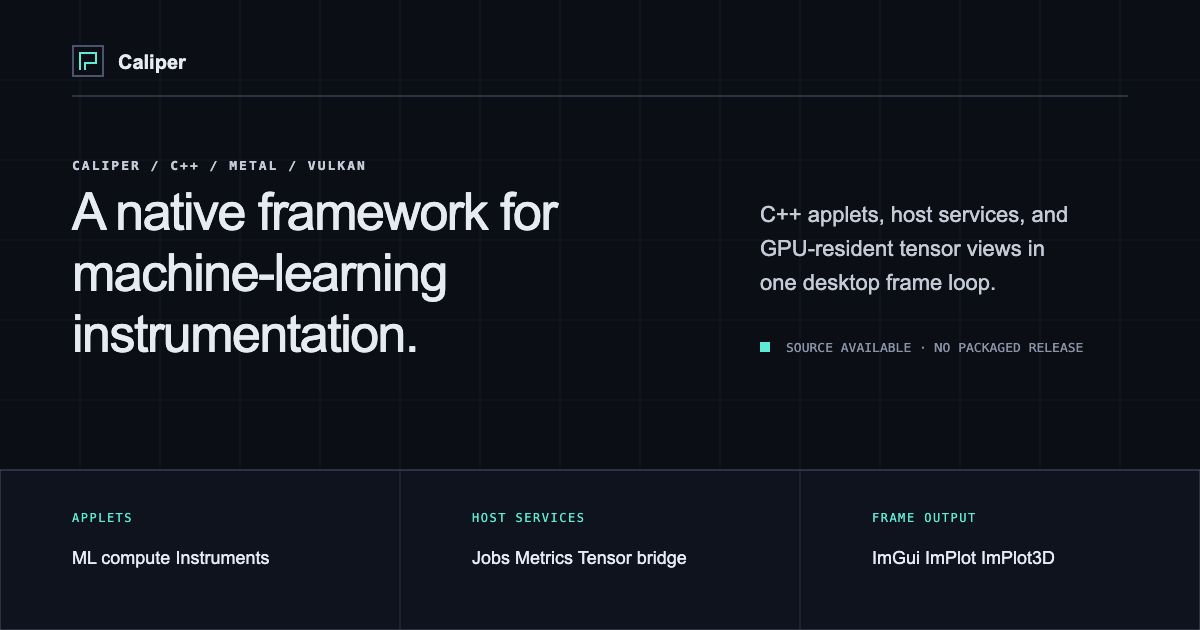
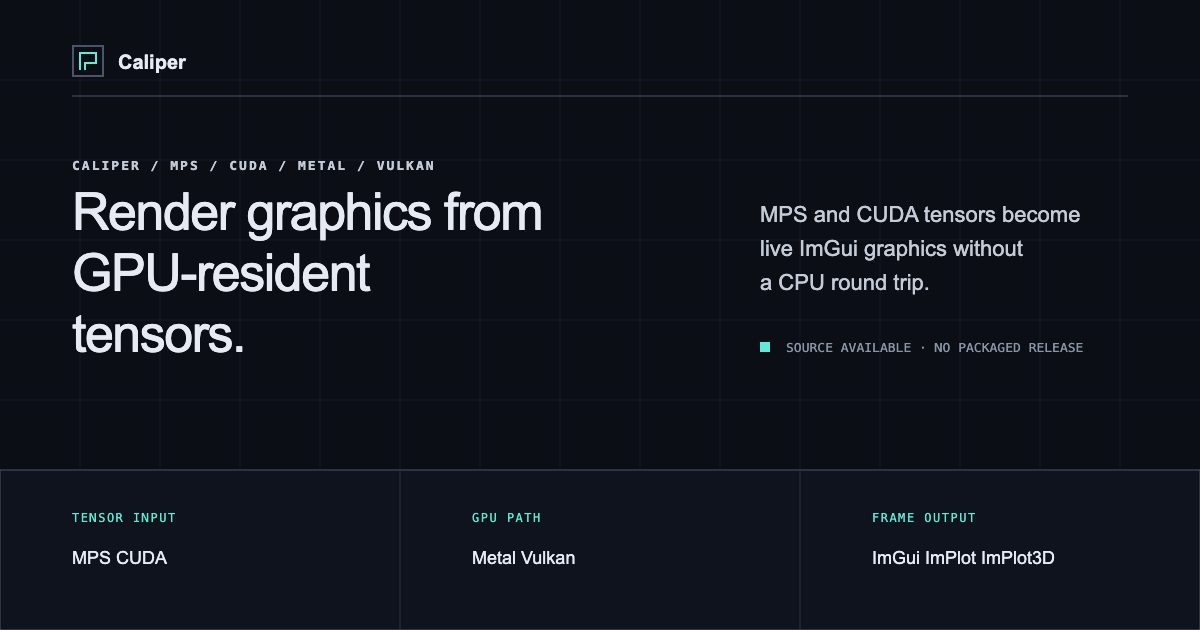
Refine Caliper product description

diff --git a/site/index.html b/site/index.html
@@ -3,8 +3,8 @@
 <head>
   <meta charset="utf-8">
   <meta name="viewport" content="width=device-width, initial-scale=1">
-  <title>Caliper — native framework for machine-learning instrumentation</title>
-  <meta name="description" content="Caliper is a native C++ host and applet framework for machine-learning instrumentation, with GPU-resident tensor visualization on Metal and Vulkan.">
+  <title>Caliper — graphics from GPU-resident tensors</title>
+  <meta name="description" content="Caliper renders MPS and CUDA tensors as live ImGui graphics without CPU staging on its native Metal and Vulkan paths.">
   <meta name="theme-color" content="#0b0e14">
   <meta name="color-scheme" content="dark">
   <link rel="canonical" href="https://ahmedkhan-gh.github.io/caliper/">
@@ -13,8 +13,8 @@
 
   <meta property="og:type" content="website">
   <meta property="og:site_name" content="Caliper">
-  <meta property="og:title" content="Caliper — native framework for machine-learning instrumentation">
-  <meta property="og:description" content="A C++ host and applet framework with GPU-resident tensor visualization on Metal and Vulkan.">
+  <meta property="og:title" content="Caliper — graphics from GPU-resident tensors">
+  <meta property="og:description" content="Render MPS and CUDA tensors as live ImGui graphics without a CPU round trip.">
   <meta property="og:url" content="https://ahmedkhan-gh.github.io/caliper/">
   <meta property="og:image" content="https://ahmedkhan-gh.github.io/caliper/assets/og.png">
   <meta property="og:image:width" content="1200">
@@ -42,10 +42,10 @@
     <section class="home-hero container" id="hero">
       <div>
         <p class="section-label">Caliper / C++ / Metal / Vulkan</p>
-        <h1>A native framework for machine-learning instrumentation.</h1>
+        <h1>Render graphics from GPU-resident tensors.</h1>
       </div>
       <div class="hero-summary">
-        <p>Caliper hosts C++ applets in the same frame loop as training. Its tensor bridge turns GPU-resident tensors into live ImGui textures on native Metal and Vulkan backends.</p>
+        <p>Caliper turns MPS and CUDA tensors into live ImGui graphics. Its Metal and Vulkan paths keep dense image and geometry views off the CPU staging path.</p>
         <div class="button-row">
           <a class="button button--primary" href="docs/">Documentation</a>
           <a class="button button--quiet" href="https://github.com/AhmedKhan-GH/caliper">View source <span aria-hidden="true">↗</span></a>
@@ -54,16 +54,16 @@
       </div>
     </section>
 
-    <section class="system-strip" aria-label="Caliper system structure">
+    <section class="system-strip" aria-label="Caliper tensor rendering path">
       <div class="container system-flow">
         <div>
-          <span class="flow-label">Applets</span>
-          <strong>ML compute&nbsp;&nbsp; Instruments</strong>
+          <span class="flow-label">Tensor input</span>
+          <strong>MPS&nbsp;&nbsp; CUDA</strong>
         </div>
         <span class="flow-arrow" aria-hidden="true">→</span>
         <div>
-          <span class="flow-label">Host services</span>
-          <strong>Jobs&nbsp;&nbsp; Metrics&nbsp;&nbsp; Tensor bridge</strong>
+          <span class="flow-label">GPU path</span>
+          <strong>Metal&nbsp;&nbsp; Vulkan</strong>
         </div>
         <span class="flow-arrow" aria-hidden="true">→</span>
         <div>

diff --git a/docs/wiki/index.md b/docs/wiki/index.md
@@ -1,8 +1,8 @@
-# Caliper Framework
+# Caliper
 
-Caliper is a native C++ host and SDK for building in-process machine-learning visualization applets. The host owns rendering and the desktop frame loop; applets provide UI and compute through ABI epoch 2 and named service tables.
+Caliper renders live ImGui graphics from GPU-resident tensors. Its Metal/MPS and Vulkan/CUDA paths keep accepted dense tensors and geometry off the CPU staging path; OpenGL remains a CPU-staged fallback.
 
-On supported Metal/MPS and Vulkan/CUDA paths, accepted dense tensors and geometry can render without CPU staging. OpenGL is a CPU-staged fallback, and chart-style views may use small CPU arrays.
+The desktop host owns rendering and the frame loop. C++ applets supply UI and compute through ABI epoch 2 and named service tables.
 
 !!! warning "Development status"
     Current host: **0.6.0** · SDK: **0.1.0** · ABI epoch: **2**. Build Caliper from source. The repository does not currently publish packaged binaries, separate SDK releases, runtime packs, or an applet registry.

diff --git a/README.md b/README.md
@@ -1,6 +1,6 @@
 # Caliper
 
-Cross-platform machine learning application with ImGui interface supporting CUDA (Windows) and MPS (macOS).
+Caliper renders live ImGui graphics from GPU-resident MPS and CUDA tensors, without CPU staging on its native Metal and Vulkan paths.
 
 ---
 
